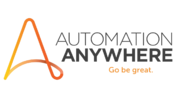
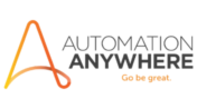
final

diff --git a/css/style.css b/css/style.css
@@ -576,7 +576,7 @@ header:after,
 
 .banner_list .banner_txt p {
    
-      color:#828287;
+      color:gray;
       letter-spacing: 0.7px;
       font-size: 20px;
       font-weight: 400;
@@ -584,7 +584,7 @@ header:after,
       line-height: 38px;
       text-align:center;
     margin-bottom: 100px;
-    font-family:montserrat light ;
+    font-family:'Courier New', Courier, monospace ;
 
       
 }
@@ -4648,7 +4648,7 @@ padding-bottom:12px;}
     margin-bottom: 10;
 }
 
-.new-footer-end-section-img img
+/* .new-footer-end-section-img img
 {
 	opacity: 0.7;
         display: block;
@@ -4658,9 +4658,39 @@ padding-bottom:12px;}
         margin-top: -30px;
    
     
+} */
+.new-footer-end-section-img img
+{
+	opacity: 0.7;
+    width: 300px;
+    margin-left: 50px;
+   
+    
+}
+.new-footer-end-section-inner h4{
+    color:white;
+    text-align: left;
+    margin-left: 400px;
+   margin-top: -120px;
 }
 
-.new-footer-end-section-inner h4{
+.new-footer-end-section-inner p{
+    color:whitesmoke;
+    line-height: 22px;
+    margin-bottom: 15px;
+    font-size: 13px;
+    font-weight: 500;
+    text-align: left;
+    margin-left: 400px;
+    margin-right: 100px;
+    text-align: justify;
+   
+}
+.new-footer-end-section-inner a{
+    color:green;
+}
+
+/* .new-footer-end-section-inner h4{
     color: #b5b5b5;
     font-size: 16px;
     font-weight: 500;
@@ -4686,7 +4716,7 @@ padding-bottom:12px;}
 .new-footer-end-section-inner a{
     color:green;
     font-family: montserrat light;
-}
+} */
 .undermanagement h1{
     padding: 0;
     font-size: 58px;
@@ -4803,7 +4833,7 @@ footer {
     width: auto;
     margin-top: -30px;
     padding: 16px;
-    color: #888;
+    color: white;
     font-weight: bold;
     font-size: 20px;
     border-radius: 0 3px 3px 0;
@@ -4827,7 +4857,7 @@ footer {
   .dot-container {
     text-align: center;
     padding: 20px;
-    background: #ddd;
+    background:white;
   
   }
   
@@ -4837,7 +4867,7 @@ footer {
     height: 15px;
     width: 15px;
     margin: 0 2px;
-    background-color: #bbb;
+    background-color:white;
     border-radius: 50%;
     display: inline-block;
     transition: background-color 0.6s ease;
@@ -4846,23 +4876,23 @@ footer {
   
   /* Add a background color to the active dot/circle */
   .active, .dot:hover {
-    background-color: #717171;
+    background-color: white;
   }
   
   /* Add an italic font style to all quotes */
-  q {color: black;
+  q {color:gray;
     letter-spacing: 0.7px;
     font-size: 20px;
-    font-weight: 400;
-	
+    font-weight: 500;
+	font-family: 'Courier New', Courier, monospace;
     text-align: center;}
   
   /* Add a blue color to the author */
-  .author {color: black;
+  .author {color: gray;
     letter-spacing: 0.7px;
     font-size: 20px;
-    font-weight: 400;
-	
+    font-weight: 600;
+	font-family: 'Courier New', Courier, monospace;
     text-align: center;}
 
  

diff --git a/css/responsive.css b/css/responsive.css
@@ -516,12 +516,12 @@
           color:#828287;
           letter-spacing: 0.7px;
           font-size: 20px;
-          font-weight: 400;
+          font-weight: 600;
           justify-content:center;
           line-height: 38px;
           text-align:center;
         margin-bottom: 100px;
-        font-family:montserrat light ;
+        font-family:'Courier New', Courier, monospace ;
         padding-bottom: 20px;
     
           
@@ -1350,7 +1350,7 @@
     
     .banner_list .banner_txt p {
        
-          color:#828287;
+          color:gray;
           letter-spacing: 0.7px;
           font-size: 20px;
           font-weight: 400;
@@ -1358,7 +1358,7 @@
           line-height: 38px;
           text-align:center;
         margin-bottom: 100px;
-        font-family:montserrat light ;
+        font-family:'Courier New', Courier, monospace ;
     
           
     }
